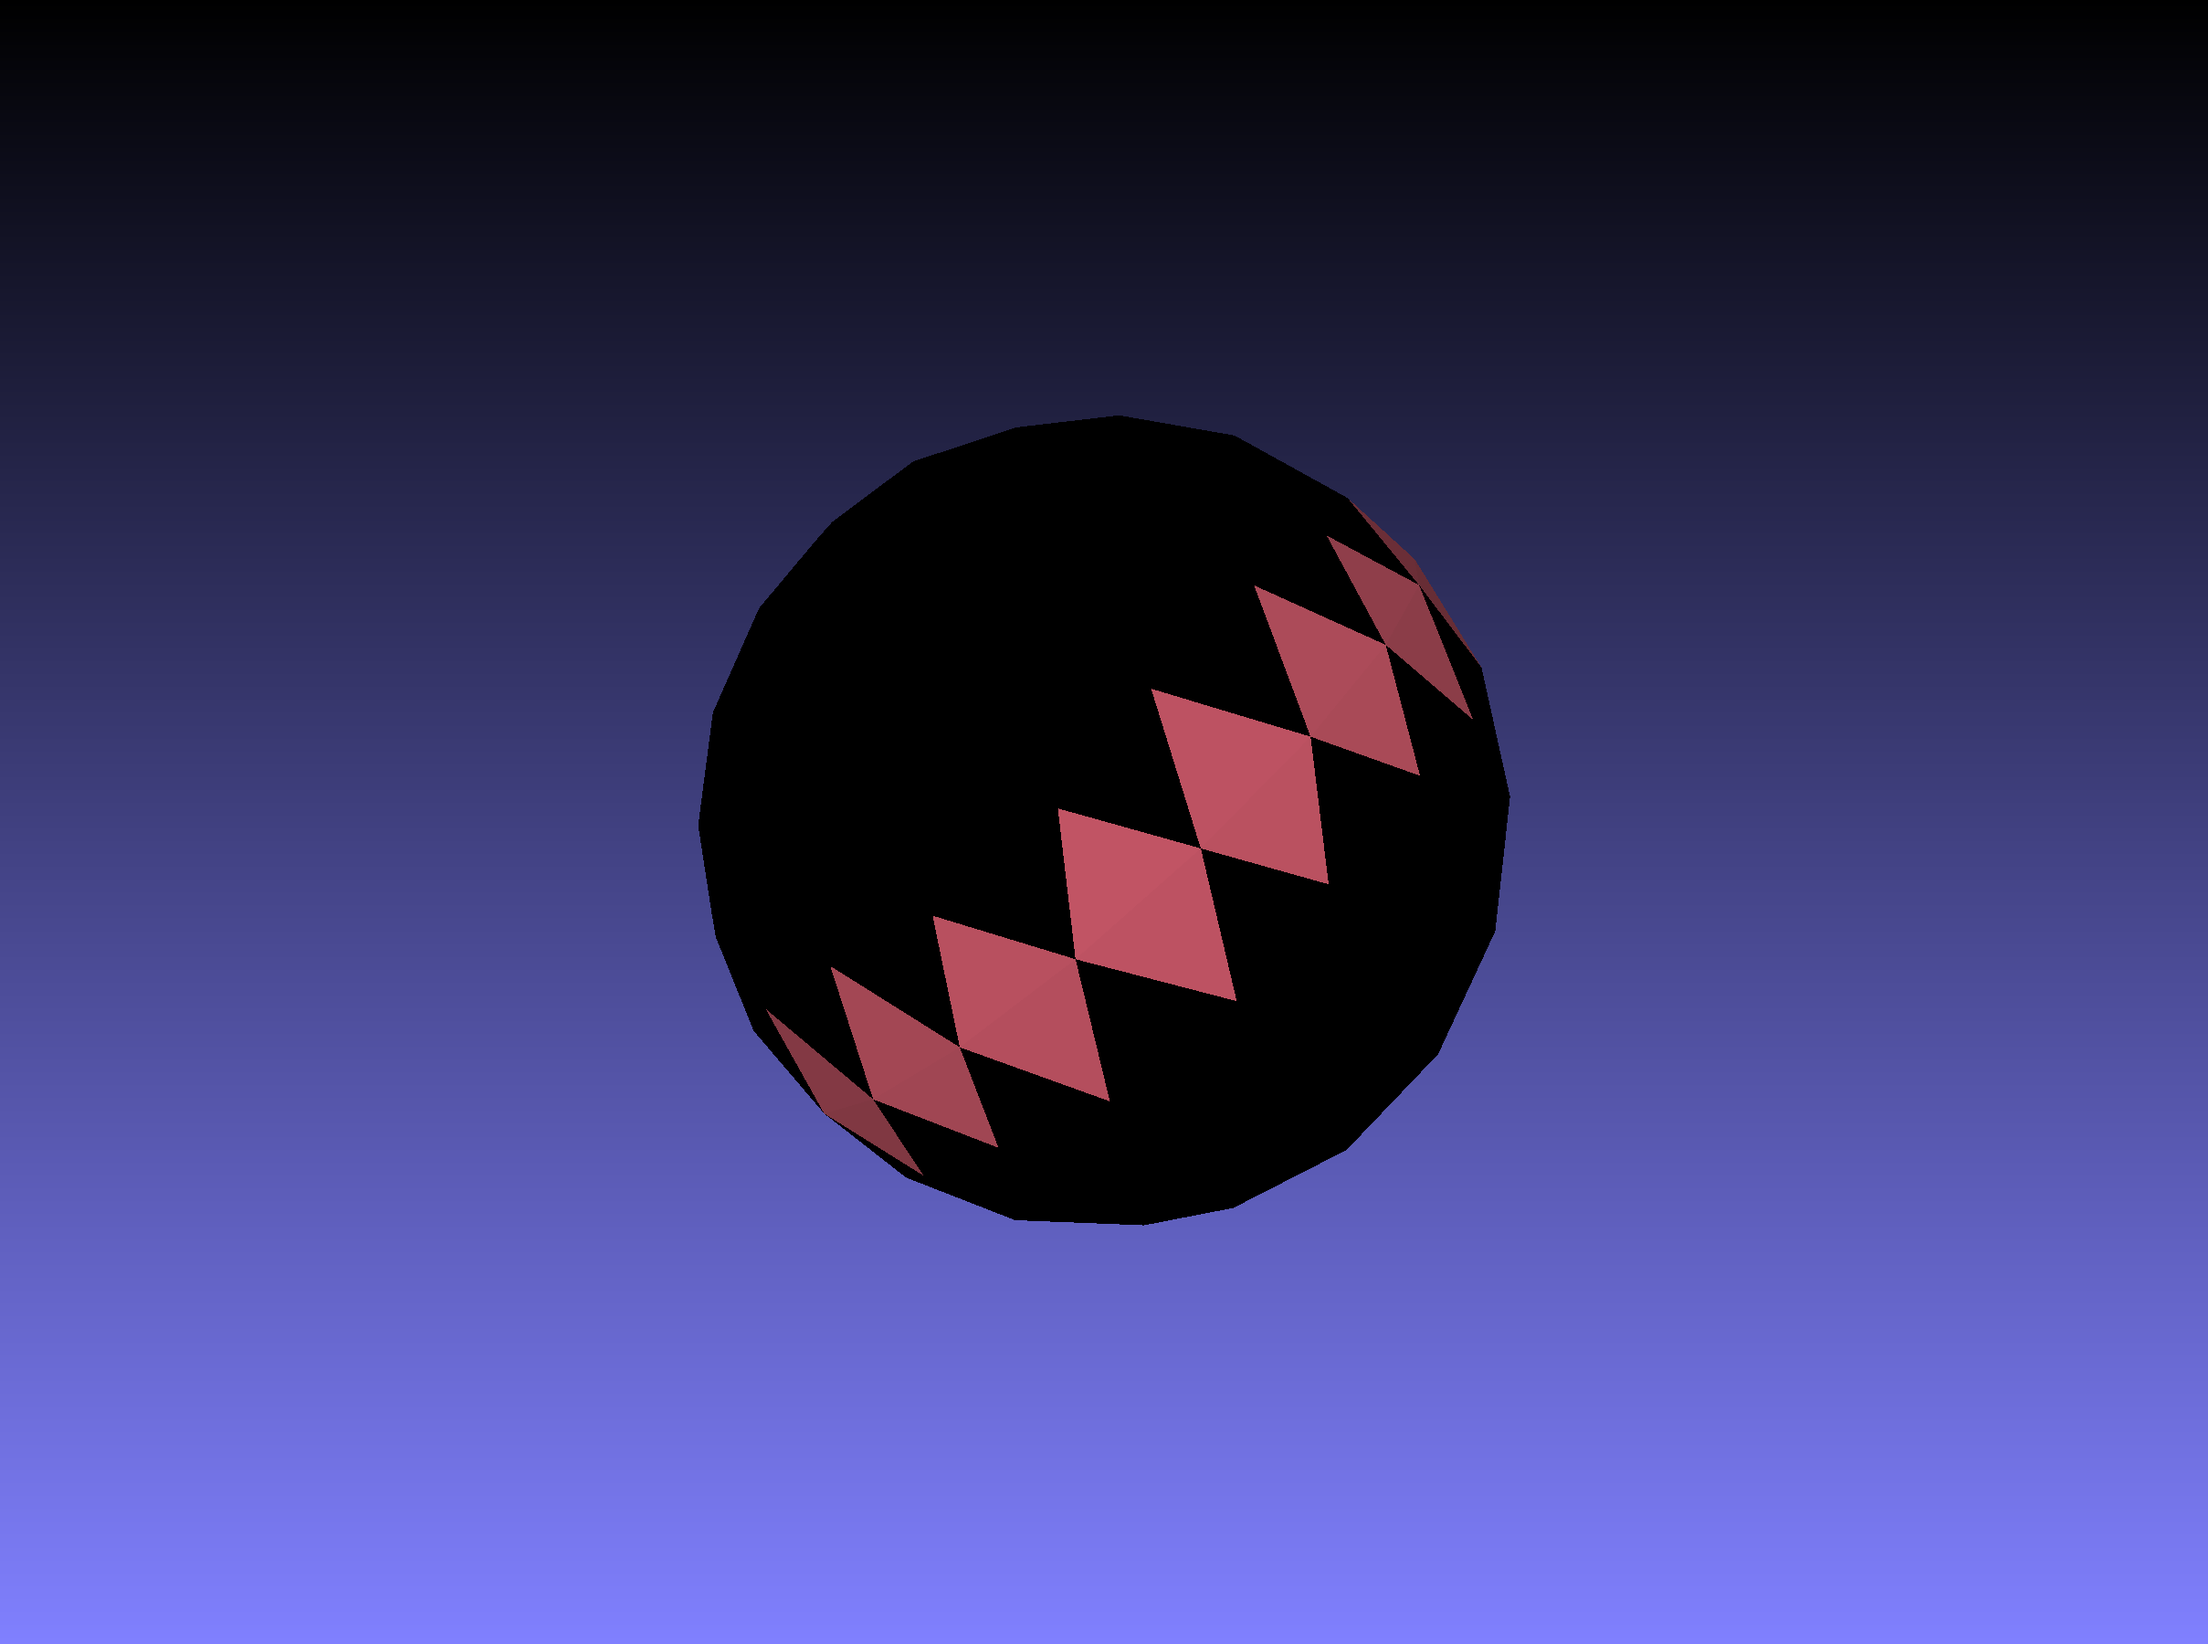
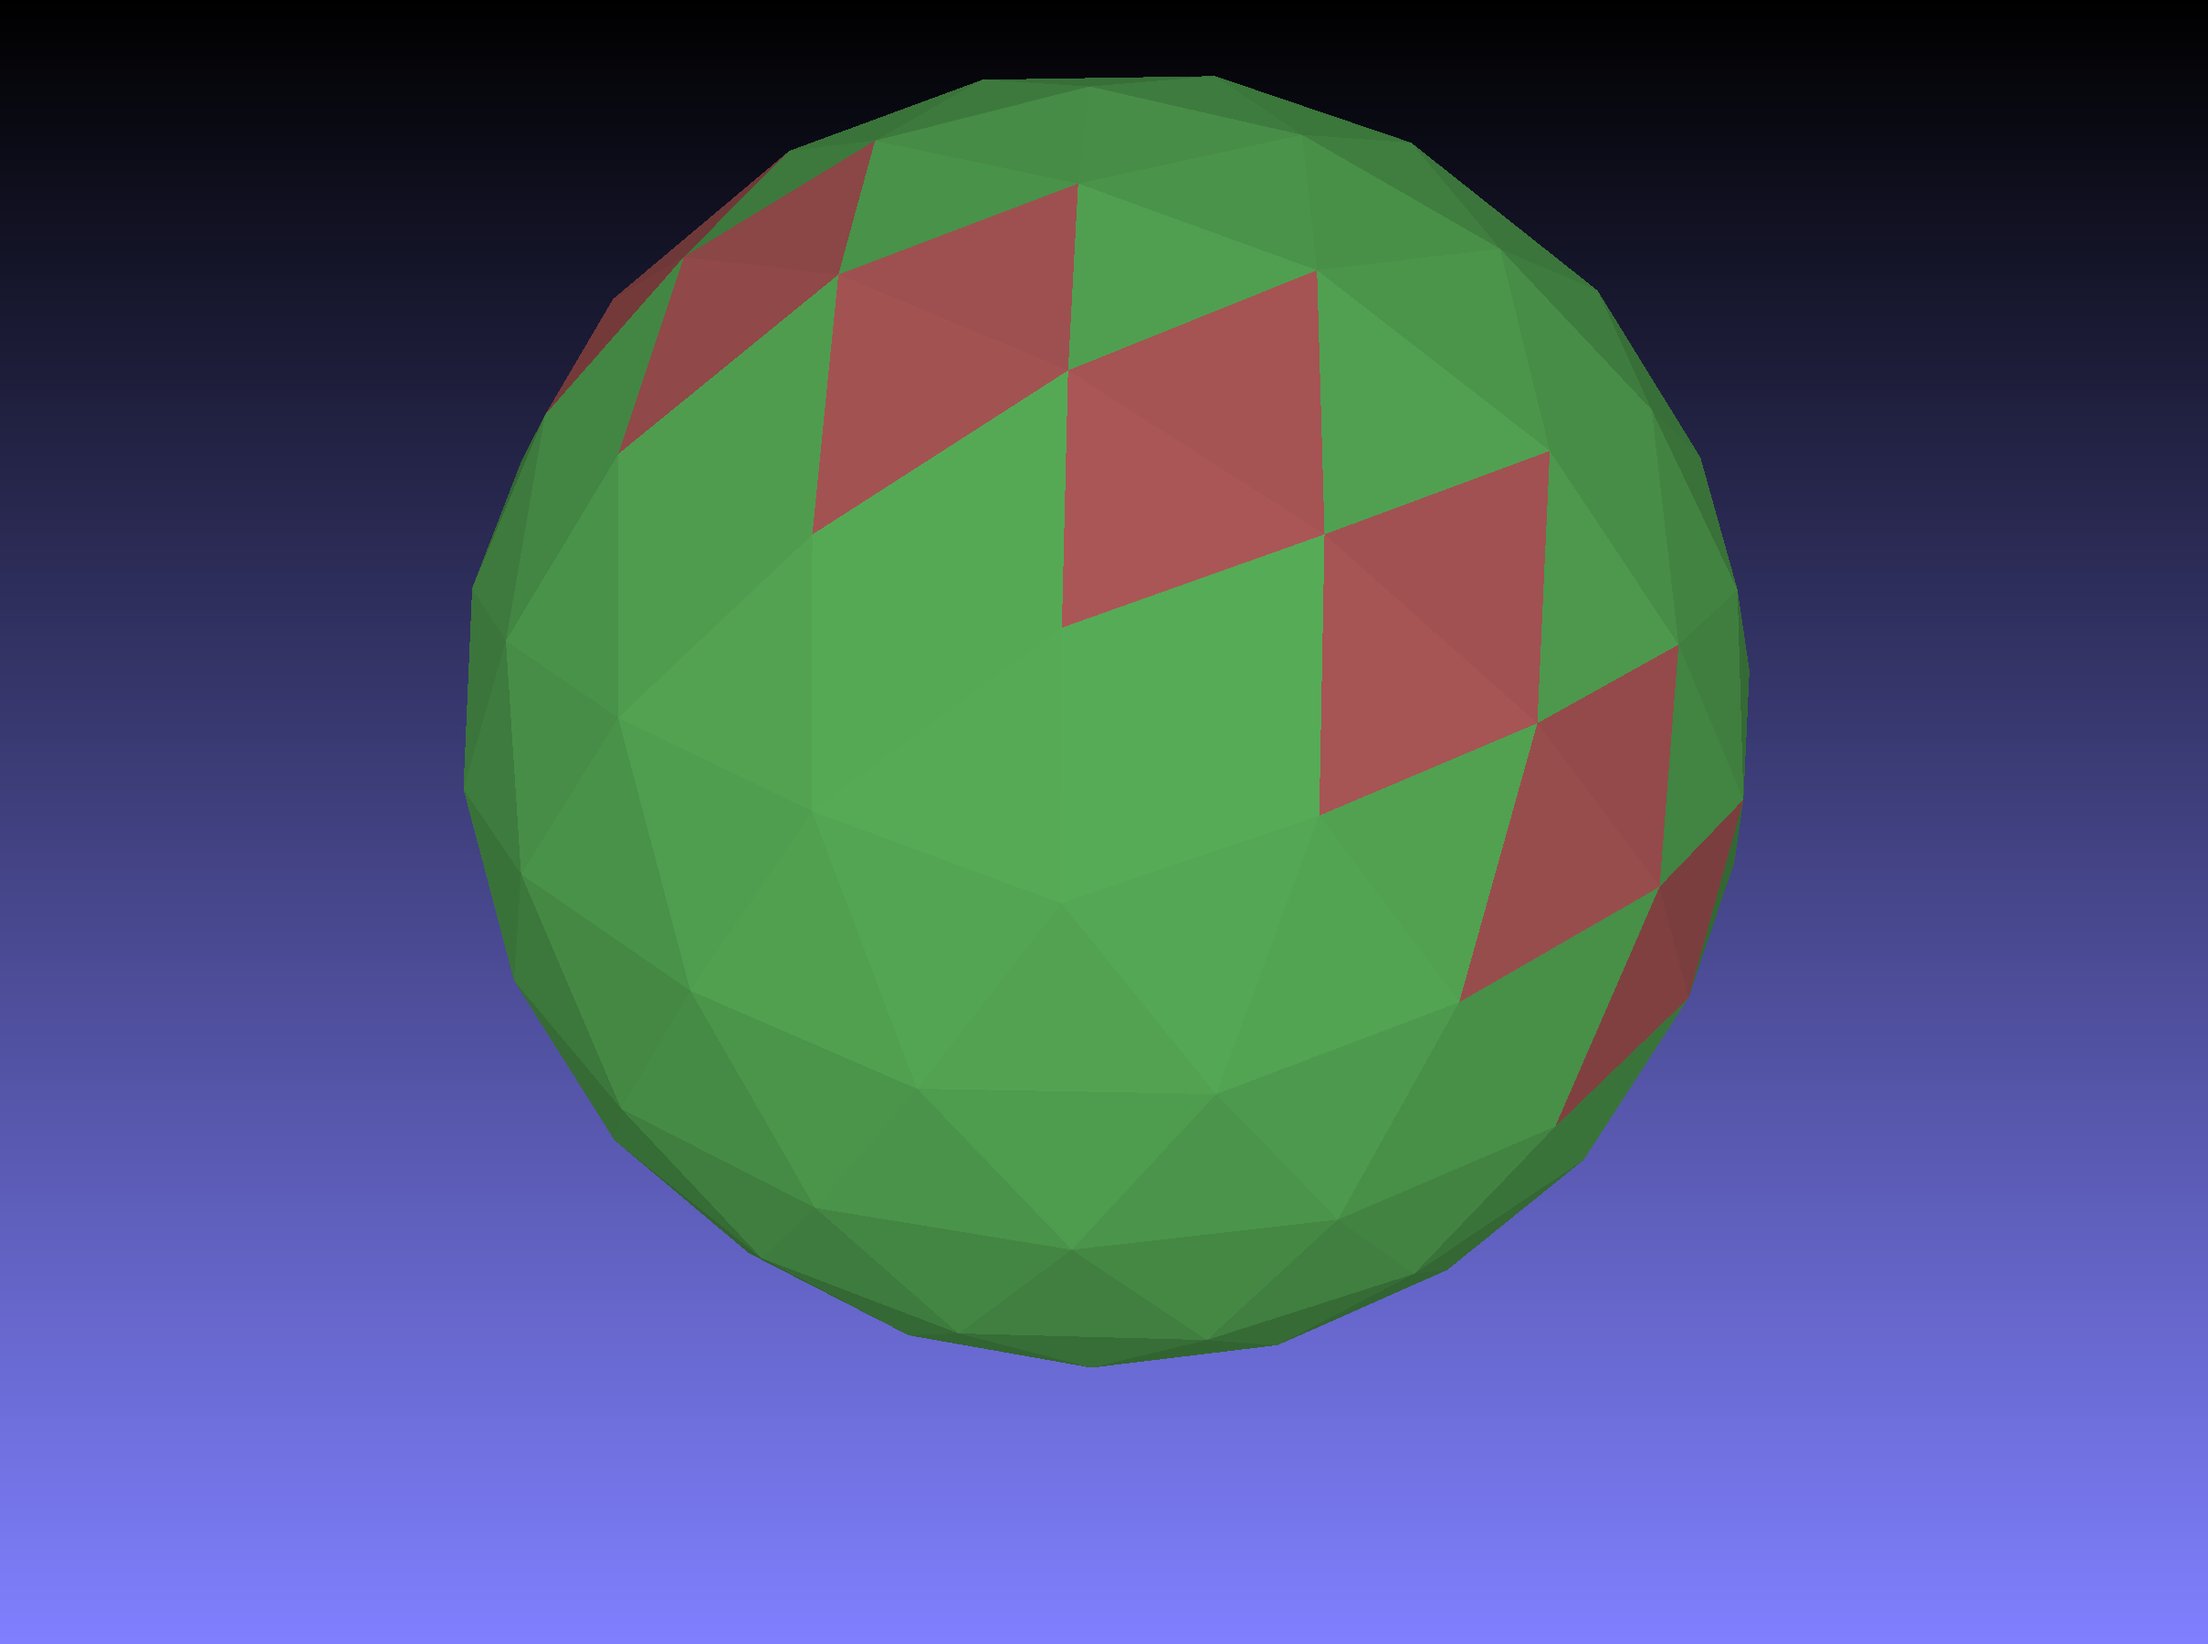
show bob

diff --git a/README.md b/README.md
@@ -9,7 +9,7 @@ the angle between the normal to surface and V is (pi/2 - A) and we integrate its
 length.
 
 In our case, the angle A = 0 and we are looking for a curve with normals
-perpendicular to a given V.
+perpendicular to the given V.
 
 Assuming a closed differentiable surface in mesh representation, get all the faces
 that have a normal close enough to perpendicular to the given vector and try to
@@ -27,4 +27,6 @@ pip install openmesh
 ```
 python find_isocline.py examples/bob_isotropic.obj 
 ```
+
+[Bob isocline](examples/bob00.png)
 
